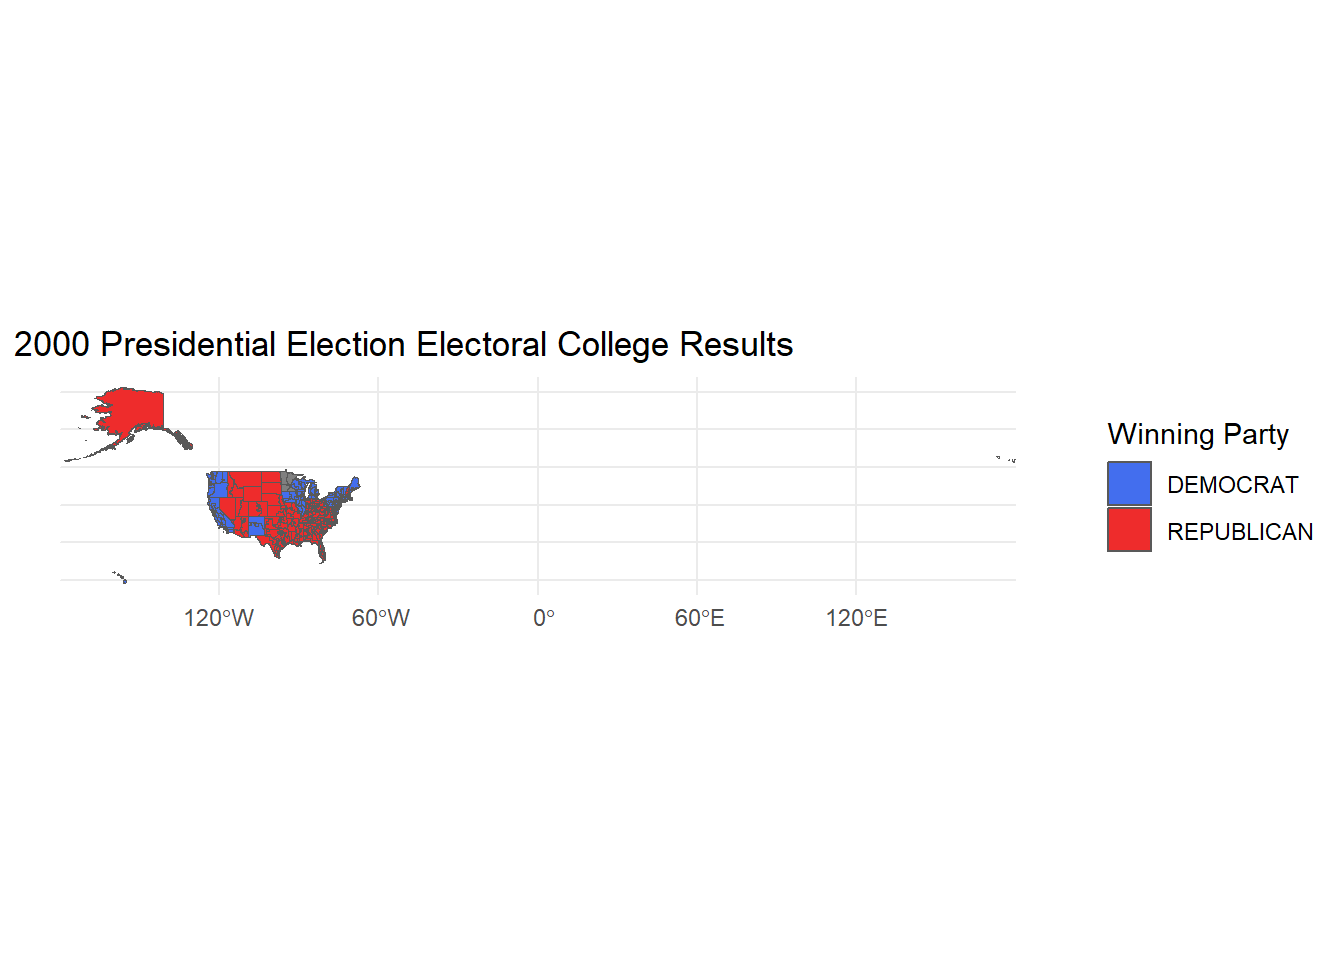
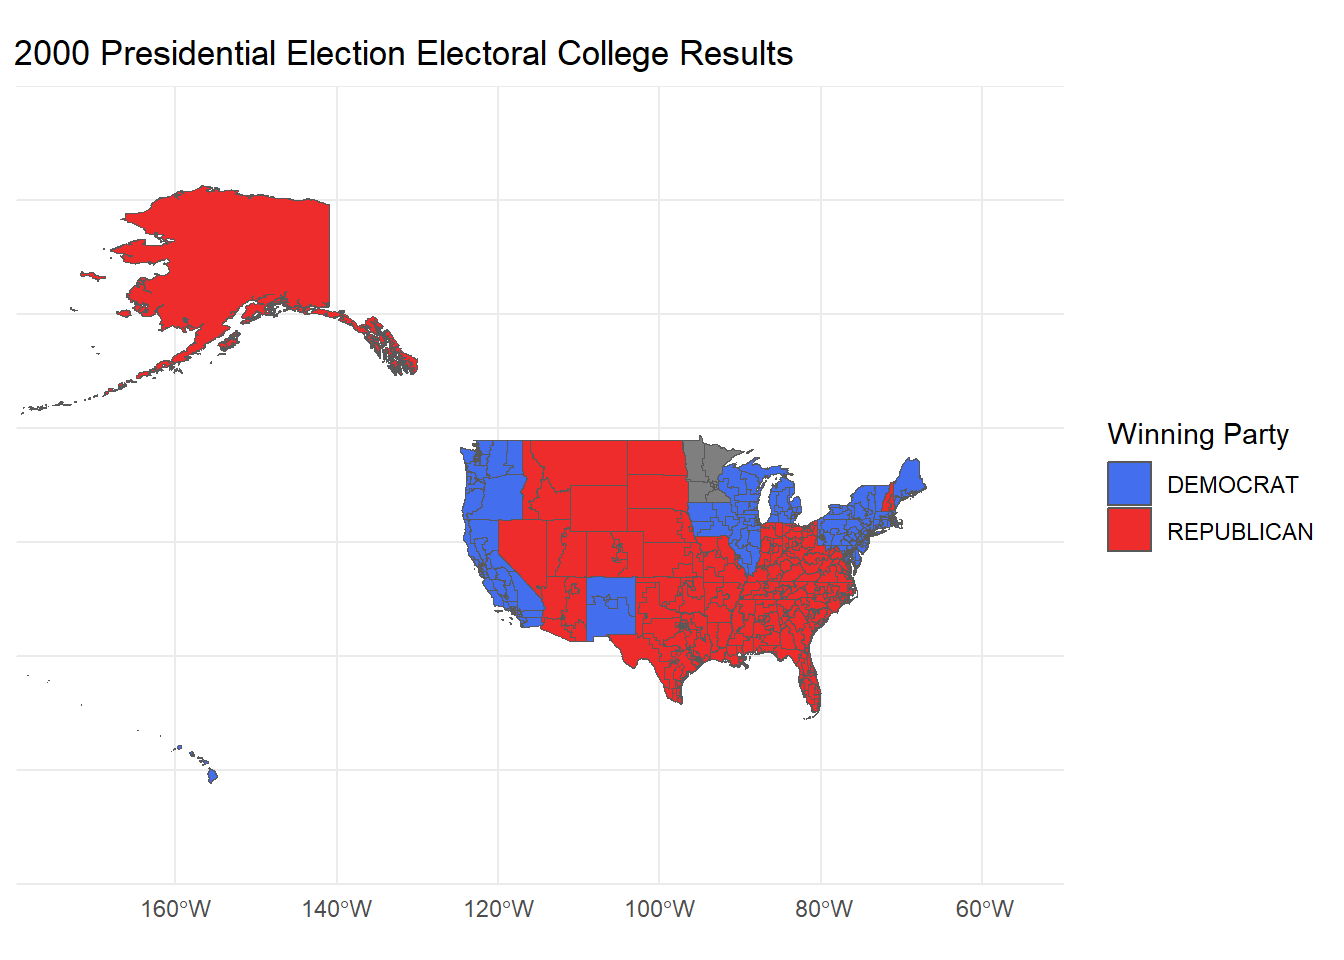
MP3 Commit 4

diff --git a/docs/mp03.html b/docs/mp03.html
@@ -328,42 +328,19 @@ lgl (2): writein, notes
 <pre><code>package 'plyr' successfully unpacked and MD5 sums checked
 
 The downloaded binary packages are in
-    C:\Users\laure\AppData\Local\Temp\Rtmp25jSsL\downloaded_packages</code></pre>
+    C:\Users\laure\AppData\Local\Temp\RtmpGoycKb\downloaded_packages</code></pre>
 </div>
 <div class="sourceCode cell-code" id="cb17"><pre class="sourceCode r code-with-copy"><code class="sourceCode r"><span id="cb17-1"><a href="#cb17-1" aria-hidden="true" tabindex="-1"></a><span class="fu">options</span>(<span class="at">repos =</span> <span class="fu">list</span>(<span class="at">CRAN=</span><span class="st">"http://cran.rstudio.com/"</span>))</span>
 <span id="cb17-2"><a href="#cb17-2" aria-hidden="true" tabindex="-1"></a></span>
 <span id="cb17-3"><a href="#cb17-3" aria-hidden="true" tabindex="-1"></a><span class="fu">library</span>(utils)</span>
 <span id="cb17-4"><a href="#cb17-4" aria-hidden="true" tabindex="-1"></a><span class="fu">install.packages</span>(<span class="st">"sf"</span>)</span></code><button title="Copy to Clipboard" class="code-copy-button"><i class="bi"></i></button></pre></div>
 <div class="cell-output cell-output-stderr">
-<pre><code>Installing package into 'C:/Users/laure/AppData/Local/R/win-library/4.4'
-(as 'lib' is unspecified)</code></pre>
+<pre><code>Warning: package 'sf' is in use and will not be installed</code></pre>
 </div>
-<div class="cell-output cell-output-stderr">
-<pre><code>Warning in download.file(url, destfile, method, mode = "wb", ...): downloaded
-length 172688 != reported length 40984670</code></pre>
-</div>
-<div class="cell-output cell-output-stderr">
-<pre><code>Warning in download.file(url, destfile, method, mode = "wb", ...): URL
-'http://cran.rstudio.com/bin/windows/contrib/4.4/sf_1.0-19.zip': Timeout of 60
-seconds was reached</code></pre>
-</div>
-<div class="cell-output cell-output-stdout">
-<pre><code>Error in download.file(url, destfile, method, mode = "wb", ...) : 
-  download from 'http://cran.rstudio.com/bin/windows/contrib/4.4/sf_1.0-19.zip' failed</code></pre>
-</div>
-<div class="cell-output cell-output-stderr">
-<pre><code>Warning in download.packages(pkgs, destdir = tmpd, available = available, :
-download of package 'sf' failed</code></pre>
-</div>
-<div class="sourceCode cell-code" id="cb23"><pre class="sourceCode r code-with-copy"><code class="sourceCode r"><span id="cb23-1"><a href="#cb23-1" aria-hidden="true" tabindex="-1"></a><span class="fu">library</span>(sf)</span></code><button title="Copy to Clipboard" class="code-copy-button"><i class="bi"></i></button></pre></div>
-<div class="cell-output cell-output-stderr">
-<pre><code>Warning: package 'sf' was built under R version 4.4.2</code></pre>
-</div>
-<div class="cell-output cell-output-stderr">
-<pre><code>Linking to GEOS 3.12.2, GDAL 3.9.3, PROJ 9.4.1; sf_use_s2() is TRUE</code></pre>
-</div>
-<div class="sourceCode cell-code" id="cb26"><pre class="sourceCode r code-with-copy"><code class="sourceCode r"><span id="cb26-1"><a href="#cb26-1" aria-hidden="true" tabindex="-1"></a><span class="fu">library</span>(sf)</span>
-<span id="cb26-2"><a href="#cb26-2" aria-hidden="true" tabindex="-1"></a>s.sf <span class="ot">&lt;-</span> <span class="fu">st_read</span>(<span class="st">"districtShapes/districts106.shp"</span>)</span></code><button title="Copy to Clipboard" class="code-copy-button"><i class="bi"></i></button></pre></div>
+<div class="sourceCode cell-code" id="cb19"><pre class="sourceCode r code-with-copy"><code class="sourceCode r"><span id="cb19-1"><a href="#cb19-1" aria-hidden="true" tabindex="-1"></a><span class="fu">library</span>(sf)</span>
+<span id="cb19-2"><a href="#cb19-2" aria-hidden="true" tabindex="-1"></a></span>
+<span id="cb19-3"><a href="#cb19-3" aria-hidden="true" tabindex="-1"></a><span class="fu">library</span>(sf)</span>
+<span id="cb19-4"><a href="#cb19-4" aria-hidden="true" tabindex="-1"></a>s.sf <span class="ot">&lt;-</span> <span class="fu">st_read</span>(<span class="st">"districtShapes/districts106.shp"</span>)</span></code><button title="Copy to Clipboard" class="code-copy-button"><i class="bi"></i></button></pre></div>
 <div class="cell-output cell-output-stdout">
 <pre><code>Reading layer `districts106' from data source 
   `C:\Users\laure\OneDrive\Documents\STA9750-2024-FALL\districtShapes\districts106.shp' 
@@ -374,7 +351,7 @@ Dimension:     XY
 Bounding box:  xmin: -179.1473 ymin: 18.9177 xmax: 179.7785 ymax: 71.35256
 Geodetic CRS:  GRS 1980(IUGG, 1980)</code></pre>
 </div>
-<div class="sourceCode cell-code" id="cb28"><pre class="sourceCode r code-with-copy"><code class="sourceCode r"><span id="cb28-1"><a href="#cb28-1" aria-hidden="true" tabindex="-1"></a><span class="fu">head</span>(s.sf, <span class="at">n=</span><span class="dv">4</span>)</span></code><button title="Copy to Clipboard" class="code-copy-button"><i class="bi"></i></button></pre></div>
+<div class="sourceCode cell-code" id="cb21"><pre class="sourceCode r code-with-copy"><code class="sourceCode r"><span id="cb21-1"><a href="#cb21-1" aria-hidden="true" tabindex="-1"></a><span class="fu">head</span>(s.sf, <span class="at">n=</span><span class="dv">4</span>)</span></code><button title="Copy to Clipboard" class="code-copy-button"><i class="bi"></i></button></pre></div>
 <div class="cell-output cell-output-stdout">
 <pre><code>Simple feature collection with 4 features and 15 fields
 Geometry type: MULTIPOLYGON
@@ -397,26 +374,29 @@ Geodetic CRS:  GRS 1980(IUGG, 1980)
 3 {"From US Census website"} MULTIPOLYGON (((-118.184 34...
 4 {"From US Census website"} MULTIPOLYGON (((-82.42332 2...</code></pre>
 </div>
-<div class="sourceCode cell-code" id="cb30"><pre class="sourceCode r code-with-copy"><code class="sourceCode r"><span id="cb30-1"><a href="#cb30-1" aria-hidden="true" tabindex="-1"></a>president_2000 <span class="ot">&lt;-</span> X1976_2020_president <span class="sc">|&gt;</span></span>
-<span id="cb30-2"><a href="#cb30-2" aria-hidden="true" tabindex="-1"></a>  <span class="fu">filter</span>(year <span class="sc">==</span> <span class="st">'2000'</span>,</span>
-<span id="cb30-3"><a href="#cb30-3" aria-hidden="true" tabindex="-1"></a>         candidate <span class="sc">%in%</span> <span class="fu">c</span>(<span class="st">"BUSH, GEORGE W."</span>, <span class="st">"GORE, AL"</span>)) <span class="sc">|&gt;</span></span>
-<span id="cb30-4"><a href="#cb30-4" aria-hidden="true" tabindex="-1"></a>  <span class="fu">group_by</span>(state) <span class="sc">|&gt;</span></span>
-<span id="cb30-5"><a href="#cb30-5" aria-hidden="true" tabindex="-1"></a>  <span class="fu">summarize</span>(</span>
-<span id="cb30-6"><a href="#cb30-6" aria-hidden="true" tabindex="-1"></a>    <span class="at">highest_votes =</span> <span class="fu">max</span>(candidatevotes),</span>
-<span id="cb30-7"><a href="#cb30-7" aria-hidden="true" tabindex="-1"></a>    <span class="at">party =</span> party_detailed[<span class="fu">which.max</span>(candidatevotes)]</span>
-<span id="cb30-8"><a href="#cb30-8" aria-hidden="true" tabindex="-1"></a>  )</span>
-<span id="cb30-9"><a href="#cb30-9" aria-hidden="true" tabindex="-1"></a></span>
-<span id="cb30-10"><a href="#cb30-10" aria-hidden="true" tabindex="-1"></a></span>
-<span id="cb30-11"><a href="#cb30-11" aria-hidden="true" tabindex="-1"></a>Shape_2000 <span class="ot">&lt;-</span> s.sf <span class="sc">|&gt;</span></span>
-<span id="cb30-12"><a href="#cb30-12" aria-hidden="true" tabindex="-1"></a>  <span class="fu">mutate</span>(<span class="at">STATENAME =</span> <span class="fu">toupper</span>(<span class="fu">trimws</span>(STATENAME))) <span class="sc">|&gt;</span></span>
-<span id="cb30-13"><a href="#cb30-13" aria-hidden="true" tabindex="-1"></a>  <span class="fu">left_join</span>(president_2000, <span class="fu">join_by</span>(STATENAME <span class="sc">==</span> state))</span>
-<span id="cb30-14"><a href="#cb30-14" aria-hidden="true" tabindex="-1"></a></span>
-<span id="cb30-15"><a href="#cb30-15" aria-hidden="true" tabindex="-1"></a><span class="fu">ggplot</span>(Shape_2000, <span class="fu">aes</span>(<span class="at">geometry =</span> geometry, <span class="at">fill =</span> party),</span>
-<span id="cb30-16"><a href="#cb30-16" aria-hidden="true" tabindex="-1"></a>       <span class="at">color =</span> <span class="st">"black"</span>) <span class="sc">+</span></span>
-<span id="cb30-17"><a href="#cb30-17" aria-hidden="true" tabindex="-1"></a>  <span class="fu">geom_sf</span>() <span class="sc">+</span> </span>
-<span id="cb30-18"><a href="#cb30-18" aria-hidden="true" tabindex="-1"></a>  <span class="fu">scale_fill_manual</span>(<span class="at">values =</span> <span class="fu">c</span>(<span class="st">"REPUBLICAN"</span> <span class="ot">=</span> <span class="st">"firebrick2"</span>, <span class="st">"DEMOCRAT"</span> <span class="ot">=</span> <span class="st">"royalblue2"</span>)) <span class="sc">+</span></span>
-<span id="cb30-19"><a href="#cb30-19" aria-hidden="true" tabindex="-1"></a>  <span class="fu">theme_minimal</span>() <span class="sc">+</span></span>
-<span id="cb30-20"><a href="#cb30-20" aria-hidden="true" tabindex="-1"></a>  <span class="fu">labs</span>(<span class="at">title =</span> <span class="st">"2000 Presidential Election Electoral College Results"</span>, <span class="at">fill =</span> <span class="st">"Winning Party"</span>) </span></code><button title="Copy to Clipboard" class="code-copy-button"><i class="bi"></i></button></pre></div>
+<div class="sourceCode cell-code" id="cb23"><pre class="sourceCode r code-with-copy"><code class="sourceCode r"><span id="cb23-1"><a href="#cb23-1" aria-hidden="true" tabindex="-1"></a>president_2000 <span class="ot">&lt;-</span> X1976_2020_president <span class="sc">|&gt;</span></span>
+<span id="cb23-2"><a href="#cb23-2" aria-hidden="true" tabindex="-1"></a>  <span class="fu">filter</span>(year <span class="sc">==</span> <span class="st">'2000'</span>,</span>
+<span id="cb23-3"><a href="#cb23-3" aria-hidden="true" tabindex="-1"></a>         candidate <span class="sc">%in%</span> <span class="fu">c</span>(<span class="st">"BUSH, GEORGE W."</span>, <span class="st">"GORE, AL"</span>)) <span class="sc">|&gt;</span></span>
+<span id="cb23-4"><a href="#cb23-4" aria-hidden="true" tabindex="-1"></a>  <span class="fu">group_by</span>(state) <span class="sc">|&gt;</span></span>
+<span id="cb23-5"><a href="#cb23-5" aria-hidden="true" tabindex="-1"></a>  <span class="fu">summarize</span>(</span>
+<span id="cb23-6"><a href="#cb23-6" aria-hidden="true" tabindex="-1"></a>    <span class="at">highest_votes =</span> <span class="fu">max</span>(candidatevotes),</span>
+<span id="cb23-7"><a href="#cb23-7" aria-hidden="true" tabindex="-1"></a>    <span class="at">party =</span> party_detailed[<span class="fu">which.max</span>(candidatevotes)]</span>
+<span id="cb23-8"><a href="#cb23-8" aria-hidden="true" tabindex="-1"></a>  )</span>
+<span id="cb23-9"><a href="#cb23-9" aria-hidden="true" tabindex="-1"></a></span>
+<span id="cb23-10"><a href="#cb23-10" aria-hidden="true" tabindex="-1"></a></span>
+<span id="cb23-11"><a href="#cb23-11" aria-hidden="true" tabindex="-1"></a>USA2000results <span class="ot">&lt;-</span> s.sf <span class="sc">|&gt;</span></span>
+<span id="cb23-12"><a href="#cb23-12" aria-hidden="true" tabindex="-1"></a>  <span class="fu">mutate</span>(<span class="at">STATENAME =</span> <span class="fu">toupper</span>(<span class="fu">trimws</span>(STATENAME))) <span class="sc">|&gt;</span></span>
+<span id="cb23-13"><a href="#cb23-13" aria-hidden="true" tabindex="-1"></a>  <span class="fu">left_join</span>(president_2000, <span class="fu">join_by</span>(STATENAME <span class="sc">==</span> state)) </span>
+<span id="cb23-14"><a href="#cb23-14" aria-hidden="true" tabindex="-1"></a></span>
+<span id="cb23-15"><a href="#cb23-15" aria-hidden="true" tabindex="-1"></a>USA2000Map <span class="ot">&lt;-</span> <span class="fu">ggplot</span>(USA2000results, <span class="fu">aes</span>(<span class="at">geometry =</span> geometry, <span class="at">fill =</span> party),</span>
+<span id="cb23-16"><a href="#cb23-16" aria-hidden="true" tabindex="-1"></a>                     <span class="at">color =</span> <span class="st">"black"</span>) <span class="sc">+</span></span>
+<span id="cb23-17"><a href="#cb23-17" aria-hidden="true" tabindex="-1"></a>  <span class="fu">geom_sf</span>() <span class="sc">+</span> </span>
+<span id="cb23-18"><a href="#cb23-18" aria-hidden="true" tabindex="-1"></a>  <span class="fu">scale_fill_manual</span>(<span class="at">values =</span> <span class="fu">c</span>(<span class="st">"REPUBLICAN"</span> <span class="ot">=</span> <span class="st">"firebrick2"</span>, <span class="st">"DEMOCRAT"</span> <span class="ot">=</span> <span class="st">"royalblue2"</span>)) <span class="sc">+</span></span>
+<span id="cb23-19"><a href="#cb23-19" aria-hidden="true" tabindex="-1"></a>  <span class="fu">theme_minimal</span>() <span class="sc">+</span></span>
+<span id="cb23-20"><a href="#cb23-20" aria-hidden="true" tabindex="-1"></a>  <span class="fu">coord_sf</span>(<span class="at">xlim =</span> <span class="fu">c</span>(<span class="sc">-</span><span class="dv">180</span>, <span class="sc">-</span><span class="dv">50</span>), <span class="at">ylim =</span> <span class="fu">c</span>(<span class="dv">10</span>,<span class="dv">80</span>), <span class="at">expand =</span> <span class="cn">FALSE</span>) <span class="sc">+</span></span>
+<span id="cb23-21"><a href="#cb23-21" aria-hidden="true" tabindex="-1"></a>  <span class="fu">labs</span>(<span class="at">title =</span> <span class="st">"2000 Presidential Election Electoral College Results"</span>, <span class="at">fill =</span> <span class="st">"Winning Party"</span>) </span>
+<span id="cb23-22"><a href="#cb23-22" aria-hidden="true" tabindex="-1"></a></span>
+<span id="cb23-23"><a href="#cb23-23" aria-hidden="true" tabindex="-1"></a><span class="fu">print</span>(USA2000Map)</span></code><button title="Copy to Clipboard" class="code-copy-button"><i class="bi"></i></button></pre></div>
 <div class="cell-output-display">
 <div>
 <figure class="figure">
